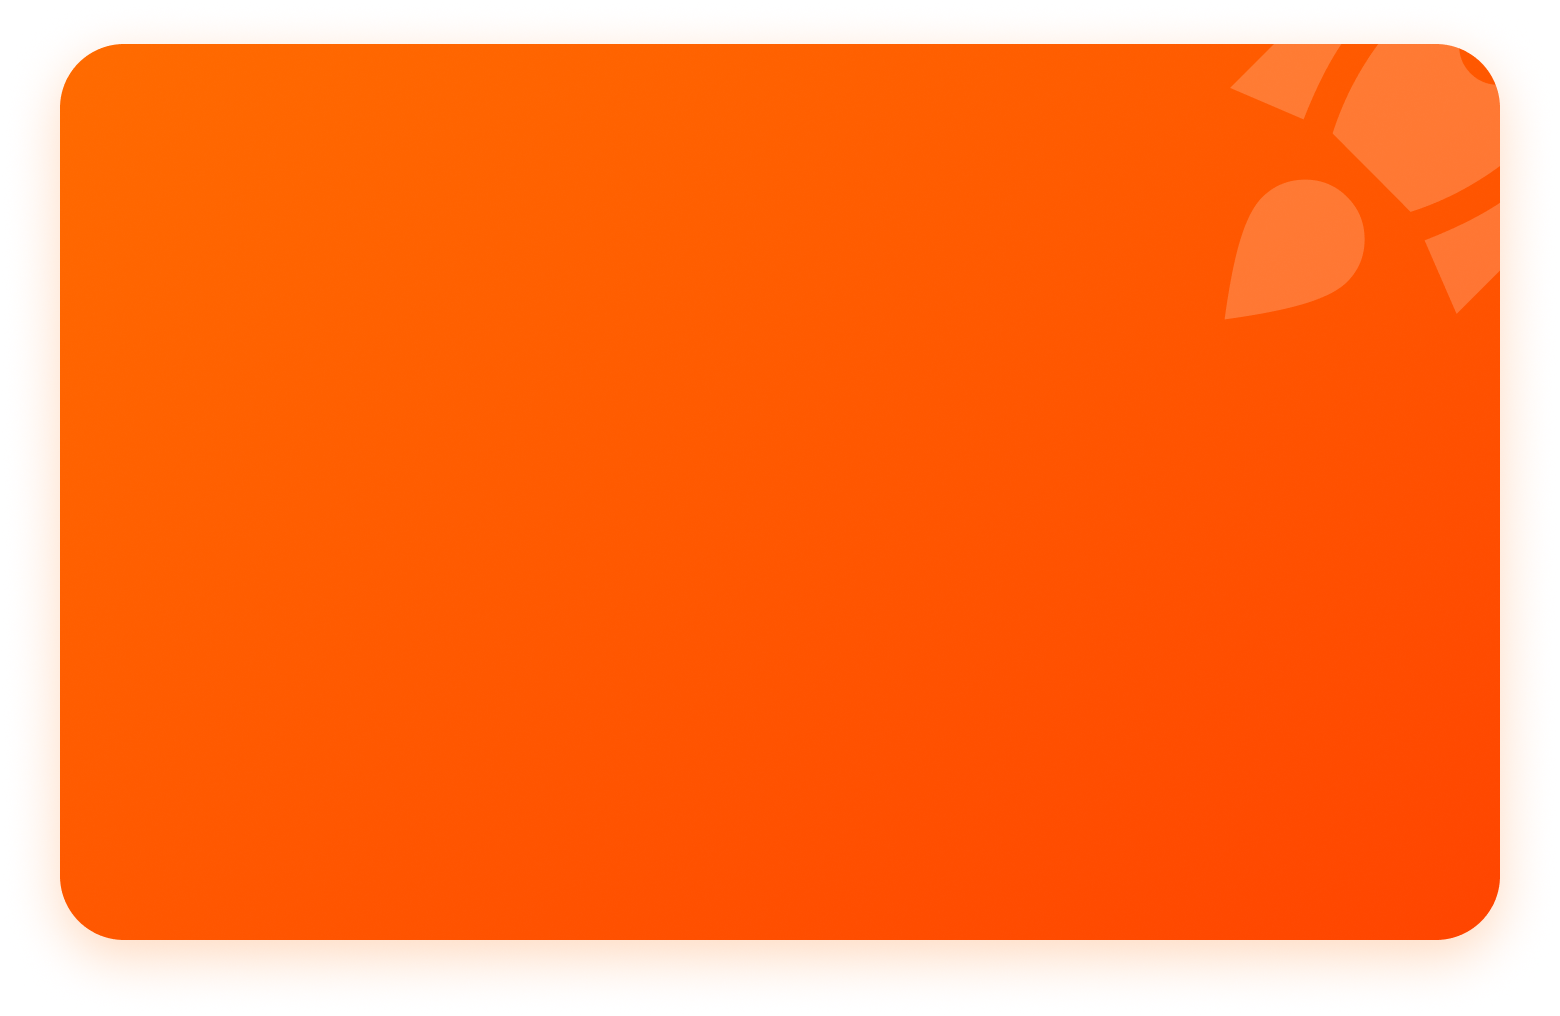
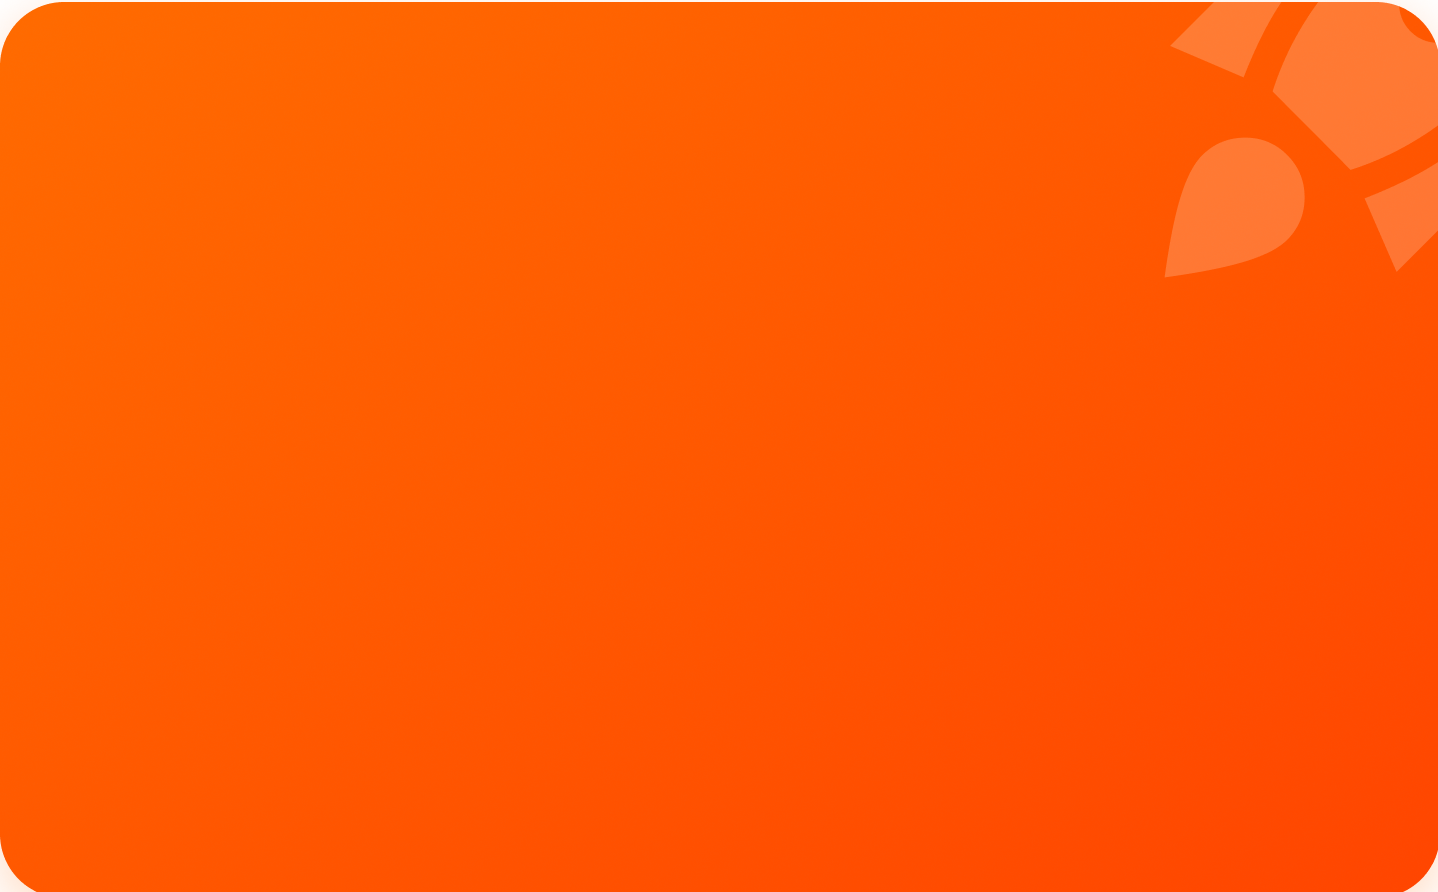
fixing

Changed region(s): [[0.0, 0.0, 1.0, 1.0]]

diff --git a/lib/app/presentation/pages/dashboard/views/home_view/home_screen.dart b/lib/app/presentation/pages/dashboard/views/home_view/home_screen.dart
@@ -2,6 +2,7 @@ import 'package:fl_chart/fl_chart.dart';
 import 'package:flutter/material.dart';
 import 'package:get/get.dart';
 
+import '../../../../../../res/assets_res.dart';
 import '../../../../../core/theme/app_colors.dart';
 import '../../../../../core/theme/app_sizes.dart';
 import '../../../../../core/theme/style_resource.dart';
@@ -258,7 +259,7 @@ class HomeScreen extends GetView<HomeController> {
     return Row(
       mainAxisAlignment: MainAxisAlignment.spaceBetween,
       children: [
-        Text('RECENT ACTIVITY', style: StyleResource.instance.styleSemiBold(fontSize: 12, color: AppColors.greyText)),
+        Text('RECENT INVOICE', style: StyleResource.instance.styleSemiBold(fontSize: 12, color: AppColors.greyText)),
         Text('View All', style: StyleResource.instance.styleSemiBold(fontSize: 12, color: AppColors.primary)),
       ],
     );
@@ -327,9 +328,10 @@ class HomeScreen extends GetView<HomeController> {
   Widget _buildPromoBanner() {
     return Container(
       width: double.infinity,
+
       padding: const EdgeInsets.all(24),
       decoration: BoxDecoration(
-        gradient: const LinearGradient(colors: [Color(0xFFFF6B00), Color(0xFFFF8E3C)], begin: Alignment.topLeft, end: Alignment.bottomRight),
+        image: const DecorationImage(image: AssetImage(AssetsRes.SECTION___PROMOTIONAL_MAGIC_CARD), fit: BoxFit.fill),
         borderRadius: AppRadius.card,
       ),
       child: Column(

diff --git a/lib/res/assets_res.dart b/lib/res/assets_res.dart
@@ -8,5 +8,6 @@ class AssetsRes {
 
   static const String PROJECT_NAME = 'invoxa';
   static const String PROJECT_VERSION = '1.0.0+1';
+  static const String SECTION___PROMOTIONAL_MAGIC_CARD = 'assets/Section - Promotional Magic Card.png';
   static const String LOGO = 'assets/logo.png';
 }
